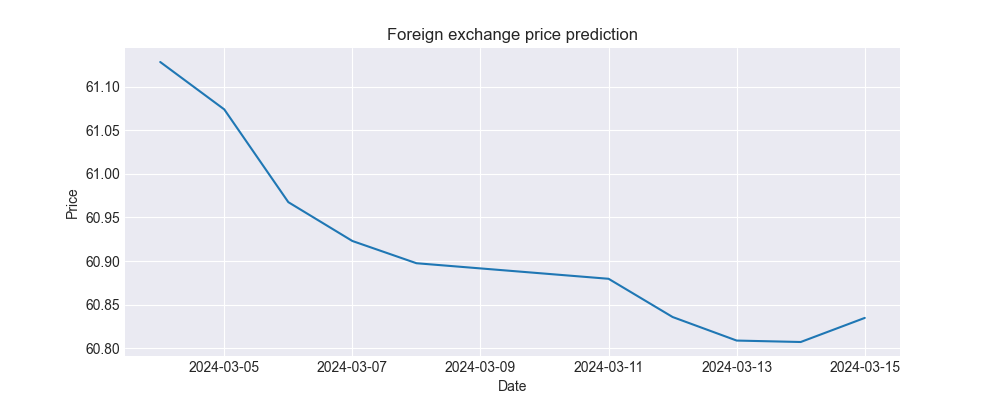
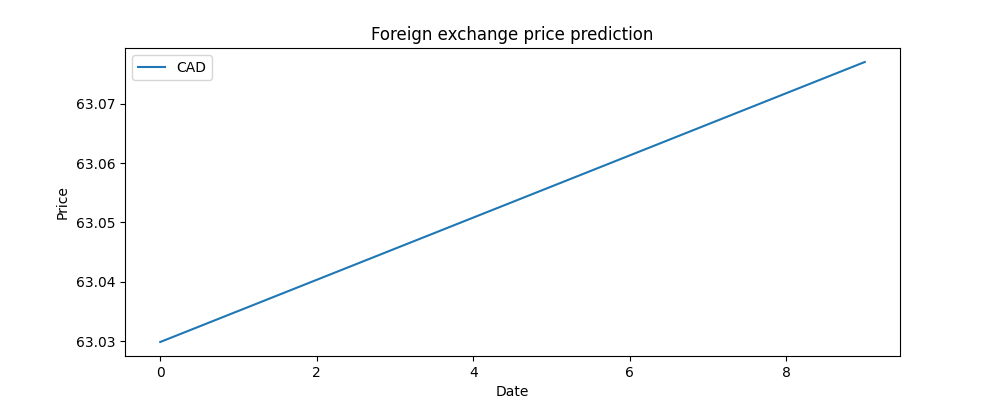
Replaces AutoTS with LinearRegression

diff --git a/predict.py b/predict.py
@@ -1,9 +1,8 @@
 # Loads the foreign exchange rates
+from datetime import datetime, timedelta
 from pandas import *
+from sklearn.linear_model import LinearRegression
 import matplotlib.pyplot as plt
-from autots import AutoTS
-
-plt.style.use('seaborn-v0_8-darkgrid')
 
 # Load the data
 data = read_csv('rates.csv')
@@ -11,14 +10,17 @@ data['date'] = to_datetime(data['date'])
 
 # Predict the foreign exchange rate
 def forecast_rate(currency, days=10):
+    # Filter data for the specified currency
+    currency_data = data[['date', currency]].copy()
+
     # Build the model
-    model = AutoTS(forecast_length=days, frequency='infer',
-                   ensemble='simple', model_list='superfast', verbose=0)
-    model = model.fit(data, date_col='date', value_col=currency)
+    model = LinearRegression()
+    model.fit([[d.timestamp()] for d in currency_data['date']], currency_data[currency])
 
     # Predict the result
-    prediction = model.predict()
-    forecast = prediction.forecast
+    # Note: We are not predict today's price
+    next_days = [datetime.now() + timedelta(days=i) for i in range(1, days+1)]
+    forecast = model.predict([[d.timestamp()] for d in next_days])
 
     return forecast
 
@@ -30,18 +32,19 @@ plt.ylabel('Price')
 
 cad = forecast_rate('CAD')
 print('CAD/INR prediction for next few days:\n', cad)
-plt.plot(cad)
+plt.plot(cad, label='CAD')
 
 # usd = forecast_rate('USD')
 # print('USD/INR prediction for next few days:\n', usd)
-# plt.plot(usd)
+# plt.plot(usd, label='USD')
 
 # eur = forecast_rate('EUR')
 # print('EUR/INR prediction for next few days:\n', eur)
-# plt.plot(eur)
+# plt.plot(eur, label='EUR')
 
 # gbp = forecast_rate('GBP')
 # print('GBP/INR prediction for next few days:\n', gbp)
-# plt.plot(gbp)
+# plt.plot(gbp, label='GBP')
 
+plt.legend()
 plt.savefig('forecast.png')
